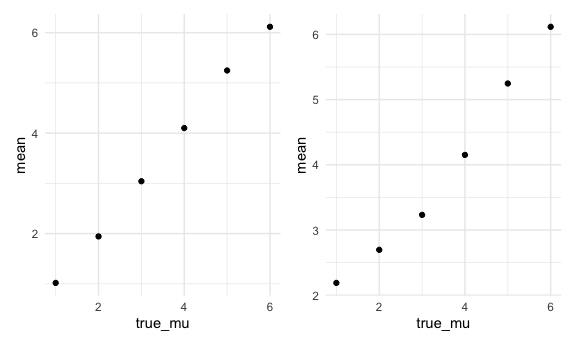
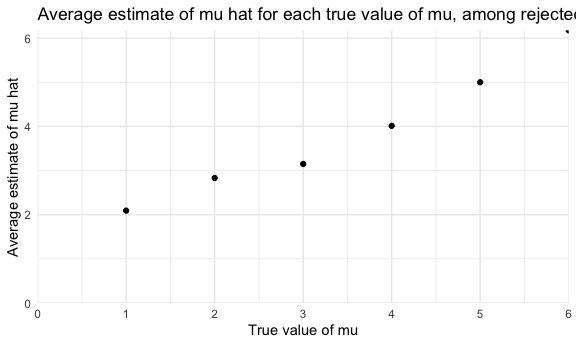
edits to plots and descriptions

diff --git a/p8105_hw5_mll2209.md b/p8105_hw5_mll2209.md
@@ -158,23 +158,6 @@ data_1 = read_csv("lda_data/con_01.csv")
 Create tibble
 
 ``` r
-path_df = 
-  tibble(
-    path = list.files("lda_data")
-  )
-path_df = 
-  path_df %>%
-  mutate(
-    path = str_c("/lda_data/", path)) %>%
-  mutate(
-    data = map(path_df$path, read_csv)
-  )
-
-
-read_csv(path_df$path[1])
-```
-
-``` r
 setwd("lda_data/")
 path_df = 
   tibble(
@@ -429,13 +412,17 @@ Spaghetti plot\!
 ``` r
   trial_unnest %>%
   ggplot(aes(x = week, y = obs, group = interaction(arm,subject_id), color = arm)) + 
-  geom_point() + geom_line()
+  geom_point() + geom_line() +
+  labs(title = "Observations on each subject over time", 
+       x = "Week", 
+       y = "Observations")
 ```
 
-<img src="p8105_hw5_mll2209_files/figure-gfm/unnamed-chunk-12-1.png" width="90%" />
-
-From the spaghetti plot, it seems that over time, the control group has
-lower observations when compared to the experimental group.
+<img src="p8105_hw5_mll2209_files/figure-gfm/unnamed-chunk-11-1.png" width="90%" />
+From the spaghetti plot, it seems that over time, on average the control
+group has lower observations when compared to the experimental group,
+since in the graph the lines corresponding to the experimental group are
+higher than the lines corresponding to the control group.
 
 ## Problem 3
 
@@ -497,21 +484,21 @@ Make plot showing proportion of times null was rejected
   mutate(reject_freq = n / sum(n)) %>%
   filter(test == "reject") %>%
   ggplot(aes(x = true_mu, y = reject_freq)) + 
-  geom_point()
+  geom_point() +
+  labs(title = "Proportion of times null was rejected for each true value of mu", 
+       x = "True value of mu", 
+       y = "Proportion of times null was rejected")
 ```
 
     ## `summarise()` regrouping output by 'true_mu' (override with `.groups` argument)
 
-<img src="p8105_hw5_mll2209_files/figure-gfm/unnamed-chunk-16-1.png" width="90%" />
+<img src="p8105_hw5_mll2209_files/figure-gfm/unnamed-chunk-15-1.png" width="90%" />
 As the effect size increases, the power of the test also increases,
 until it becomes large enough and plateaus at 1.
 
-Make plot showing average estimate of mu hat and true mu. Make second
-plot with average estimate of mu hat for which the null was rejected and
-the true value of mu
+Make plot showing average estimate of mu hat and true mu.
 
 ``` r
-plot1 = 
   sim_results1 %>%
   mutate(
     test  = case_when(
@@ -520,13 +507,23 @@ plot1 =
   group_by(true_mu) %>%
   summarize(mean = mean(mu_hat)) %>%
   ggplot(aes(x = true_mu, y = mean)) +
-  geom_point()
+  geom_point() + 
+  labs(title = "Average estimate of mu hat for each true value of mu", 
+       x = "True value of mu", 
+       y = "Average estimate of mu hat") +
+  scale_y_continuous(
+    breaks = c(0, 2, 4, 6)
+  )
 ```
 
     ## `summarise()` ungrouping output (override with `.groups` argument)
 
+<img src="p8105_hw5_mll2209_files/figure-gfm/unnamed-chunk-16-1.png" width="90%" />
+
+Make second plot with average estimate of mu hat for which the null was
+rejected and the true value of mu
+
 ``` r
-plot2 = 
   sim_results1 %>%
   mutate(
     test  = case_when(
@@ -536,14 +533,22 @@ plot2 =
   group_by(true_mu) %>%
   summarize(mean = mean(mu_hat)) %>%
   ggplot(aes(x = true_mu, y = mean)) +
-  geom_point()
+  geom_point() +
+  labs(title = "Average estimate of mu hat for each true value of mu, among rejected", 
+       x = "True value of mu", 
+       y = "Average estimate of mu hat") +
+  scale_x_continuous(expand = c(0, 0), limits = c(0, NA)) + 
+  scale_y_continuous(expand = c(0, 0), limits = c(0, NA))
 ```
 
     ## `summarise()` ungrouping output (override with `.groups` argument)
 
-``` r
-library(patchwork)
-plot1 + plot2
-```
-
 <img src="p8105_hw5_mll2209_files/figure-gfm/unnamed-chunk-17-1.png" width="90%" />
+
+The sample average of mu hat across tests for which the null is rejected
+is not approximately equal to the true value of mu, because values that
+are appreciably different from the true mu get rejected because they
+will have a larger effect size and smaller p value. Since the averages
+among samples where the null was rejected is composed of these larger
+values, the sample average of mu across tests in this situation will be
+larger than the true value of mu as we see in the graph.
